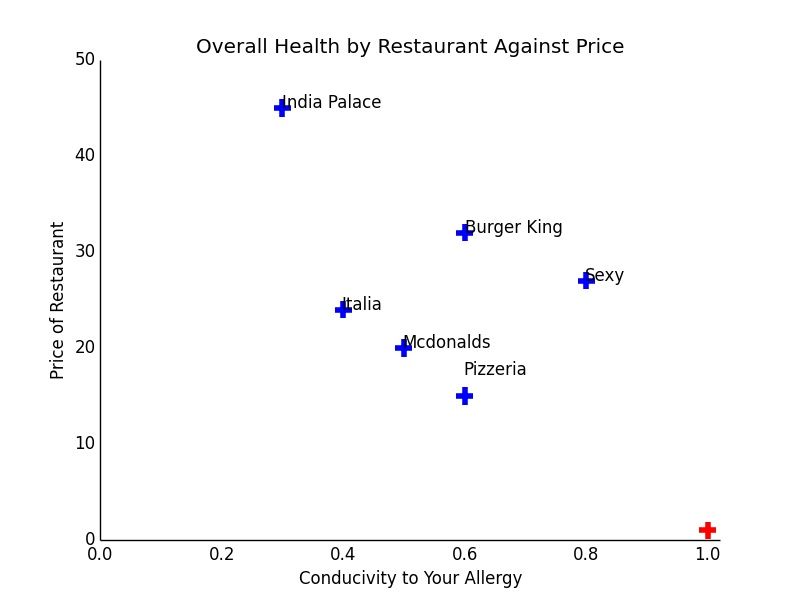
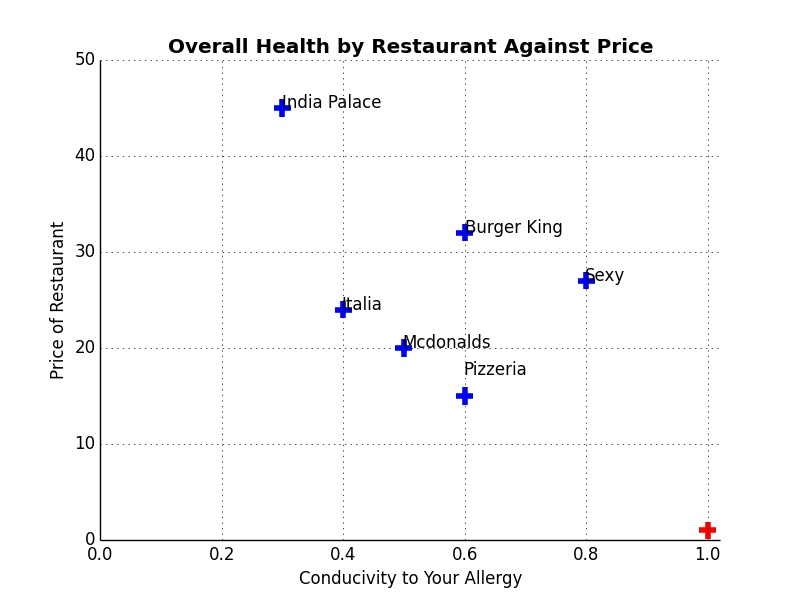
Added another graph

Changed region(s): [[0.1875, 0.06, 0.8125, 0.09]]

diff --git a/python/GraphLoader2.py b/python/GraphLoader2.py
@@ -8,7 +8,7 @@ import pylab
 #Add labels
 #Color code
 #Add title
-filename = "C:\Users\Anirudh\Desktop\iEatOut.github.io\python\data.txt"
+filename = "C:\Users\Anirudh\Desktop\iEatOut.github.io\python\datan.txt"
 #filename = "data.txt" 
 with open(filename) as f:
     datum = f.readlines()
@@ -43,10 +43,10 @@ if 1: # picking on a scatter plot (matplotlib.collections.RegularPolyCollection)
     ax1.grid('on')
     ttl = ax1.title
     ttl.set_weight('bold')
-    plt.title("Overall Health by Restaurant Against Price")
+    plt.title("Overall Health by Restaurant Against YOUR Nutrition")
     plt.xlabel("Conducivity to Your Allergy")
-    plt.ylabel("Average Price of Restaurant")
-    plt.axis([0, 1.02, 0, 50])
+    plt.ylabel("Conducivity to Your Health")
+    plt.axis([0, 1.02, 0, 1.02])
     plt.tick_params(axis="both", which="both", bottom="off", top="off",  
                 labelbottom="on", left="off", right="off", labelleft="on") 
     x1 = [1]
@@ -56,17 +56,17 @@ if 1: # picking on a scatter plot (matplotlib.collections.RegularPolyCollection)
     x = polyShape[1]
     y = polyShape[2]
     col = ax1.scatter(x1, x2,marker='+', s=150, linewidths=4, c='r', cmap=plt.cm.coolwarm)
-    cola = ax1.scatter(x, y,marker='+', s=150, linewidths=4, c='b', cmap=plt.cm.coolwarm)
+    cola = ax1.scatter(x, y,marker='+', s=150, linewidths=4, c='g', cmap=plt.cm.coolwarm)
     for i, txt in enumerate(polyShape[0]):
-        ax1.annotate(txt, (x[i],y[i]))   
+        ax1.annotate(txt, (x[i],y[i]))
     plt.legend((col,cola),
         ('You (Ideal)', 'Each Restaurant'),
         scatterpoints=1,
-        loc='lower left',
+        loc='lower right',
         ncol=3,
-        fontsize=8)
-    fig.savefig('C:\Users\Anirudh\Desktop\iEatOut.github.io\python\outputprice.jpg')
-
+        fontsize=8)   
+    #fig.savefig('pscoll.eps')
+    fig.savefig('C:\Users\Anirudh\Desktop\iEatOut.github.io\python\outputN.jpg')
     #fig.savefig('foo.jpg')
     #fig.canvas.mpl_connect('pick_event', onpick3)
     show()
